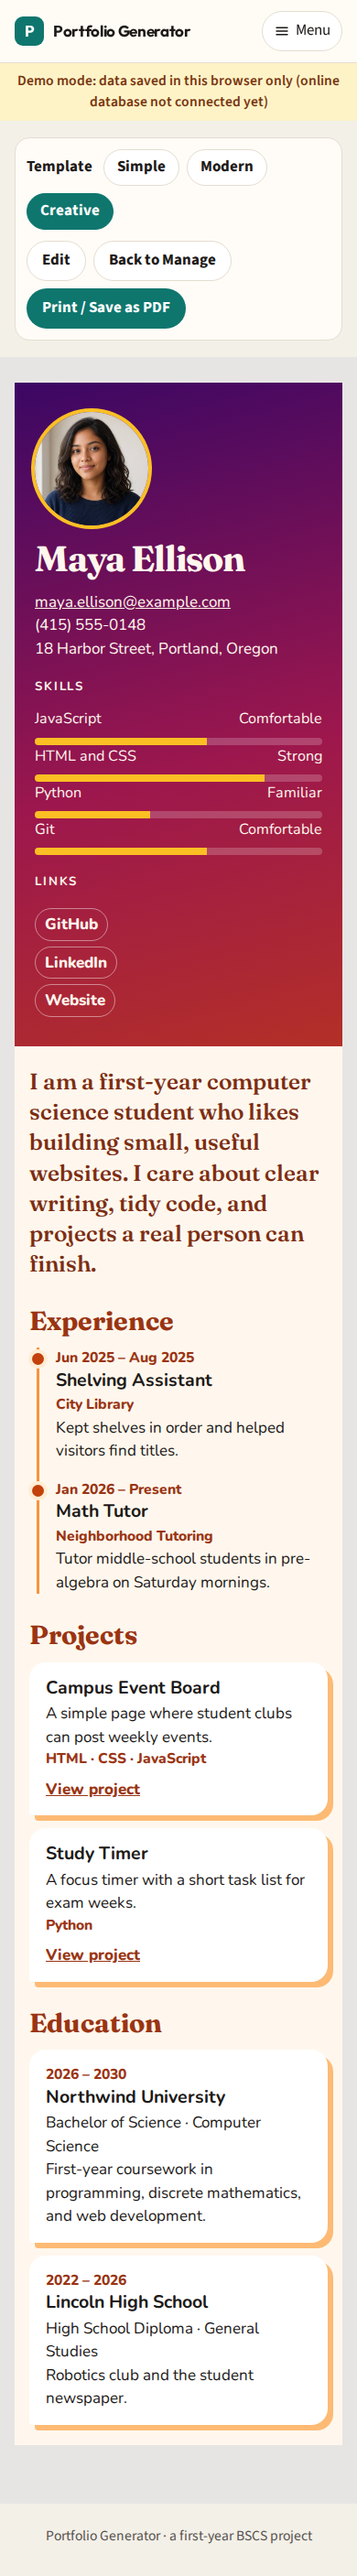
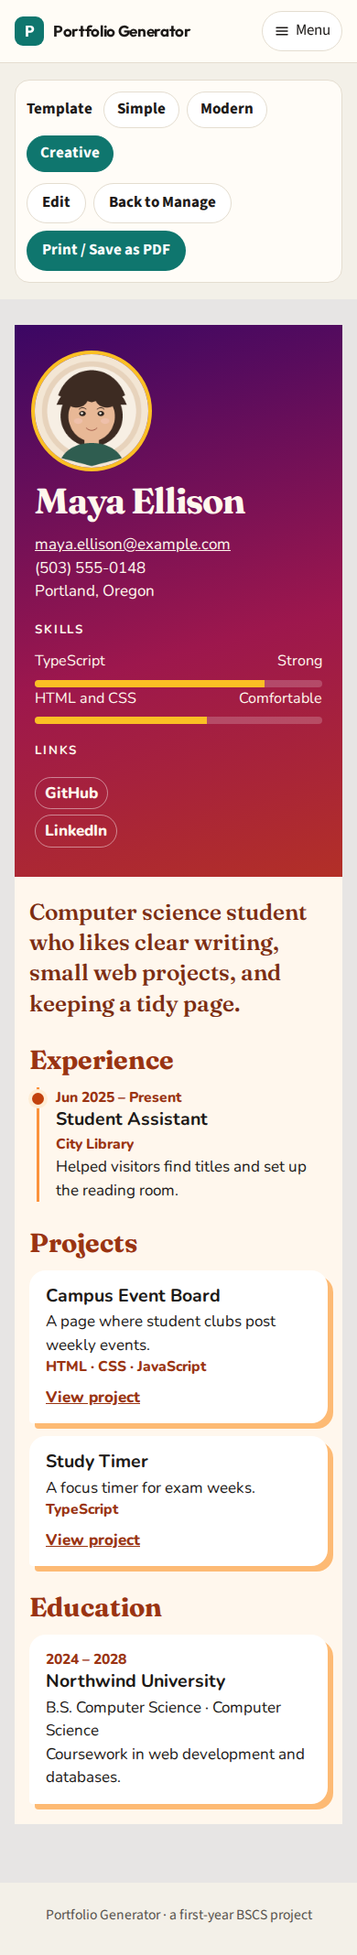
Document the published site and refresh the screenshots.
The write-up now uses the live Vercel URL and names the Supabase project without keys. Screenshots were retaken on the published site, where the demo banner is hidden.

Changed region(s): [[0.0, 0.0, 1.0, 0.9888], [0.6769, 0.8034, 0.7077, 0.8343]]

diff --git a/docs/PROJECT_DOCUMENTATION.md b/docs/PROJECT_DOCUMENTATION.md
@@ -26,7 +26,7 @@ Until the online database is connected, the site runs in demo mode and keeps dat
 
 ## Database Platform
 
-Supabase (PostgreSQL) / Database Project: Portfolio Generator
+Supabase (PostgreSQL + Storage) / Database Project: Portfolio Generator
 
 No passwords, API secret keys, or private credentials are stored in this project. The published site uses the public anon key, which is set in the hosting environment and is not written in the repository.
 
@@ -237,7 +237,7 @@ Empty sections are hidden on all three templates.
 
 ## Screenshots of the System
 
-These screenshots were taken in demo mode, so the yellow database banner is visible. After Supabase is connected and the site is redeployed, that banner is hidden.
+These screenshots are from the published site. The yellow demo banner is hidden because the online database is connected. The person shown is fictional sample data.
 
 ![Home page](screenshots/01-home.png)
 
@@ -261,6 +261,23 @@ These screenshots were taken in demo mode, so the yellow database banner is visi
 
 ## Published Website URL
 
-`https://<your-project>.vercel.app`
+https://portfolio-generator-gray.vercel.app
 
-Replace this with the real Vercel URL after deployment.
+## How to test
+
+Use the published site. No account is required.
+
+1. Open the home page and confirm **Create Portfolio** and **Manage portfolios** are shown, with no yellow demo banner.
+2. Open **Create Portfolio**. Leave the name blank and try to save. The form should ask for a full name and an email.
+3. Enter a name, email, contact number, address, and about text. Attach a JPG, PNG, WEBP, or GIF under 2 MB and confirm the preview appears.
+4. Add at least one education entry, one skill, one project, one experience entry, and one link.
+5. Choose **Save and choose a template**. The template page should open and say the portfolio was saved.
+6. Select **Simple**, **Modern**, or **Creative**, then choose **Generate Portfolio**. The preview should show the information you entered.
+7. On the preview, switch to each of the other two templates and confirm the same information appears in the new layout.
+8. Choose **Edit**, change a field, and save. Generate or return to the preview and confirm the change is there.
+9. Open **Manage**. The portfolio should be listed with the name, email, and template. **View**, **Edit**, and **Change template** should open the right page.
+10. Choose **Delete**, confirm, and check that the portfolio disappears from Manage. Create it again if you still need it for the database check below.
+
+## Verify it's stored in the online database
+
+After step 5 or step 6, before you delete the portfolio, open the Supabase project **Portfolio Generator** and go to **Table Editor**. You should see a row in `portfolios`, plus matching rows in `education`, `skills`, `projects`, `work_experience`, and `social_links`. The profile picture should be in the `profile-pictures` storage bucket. Deleting the portfolio from Manage removes those rows and the stored photo. No API keys are in this repository; the published site already has the public key configured in Vercel.

diff --git a/README.md b/README.md
@@ -2,6 +2,8 @@
 
 A small website for a first-year BSCS assignment. You enter your information, save it, choose one of three portfolio templates, and preview the page. You can edit or delete a portfolio later.
 
+Published site: https://portfolio-generator-gray.vercel.app
+
 ## Features
 
 - Home, portfolio form (create and edit), template selection, preview, and manage pages
@@ -98,7 +100,7 @@ This assignment has no login. The SQL policies allow the publishable (anon) key 
 5. Output directory: `dist`.
 6. Add the environment variables from the section above if the database is ready. You can deploy once without them (demo mode) and add them later, then redeploy.
 7. Deploy. `vercel.json` sends all routes to `index.html` so refreshing a page like `/portfolio/some-id` still opens the app.
-8. Visit the URL Vercel gives you, for example `https://your-project.vercel.app`.
+8. Visit the published site: https://portfolio-generator-gray.vercel.app
 
 ## Project files
 
